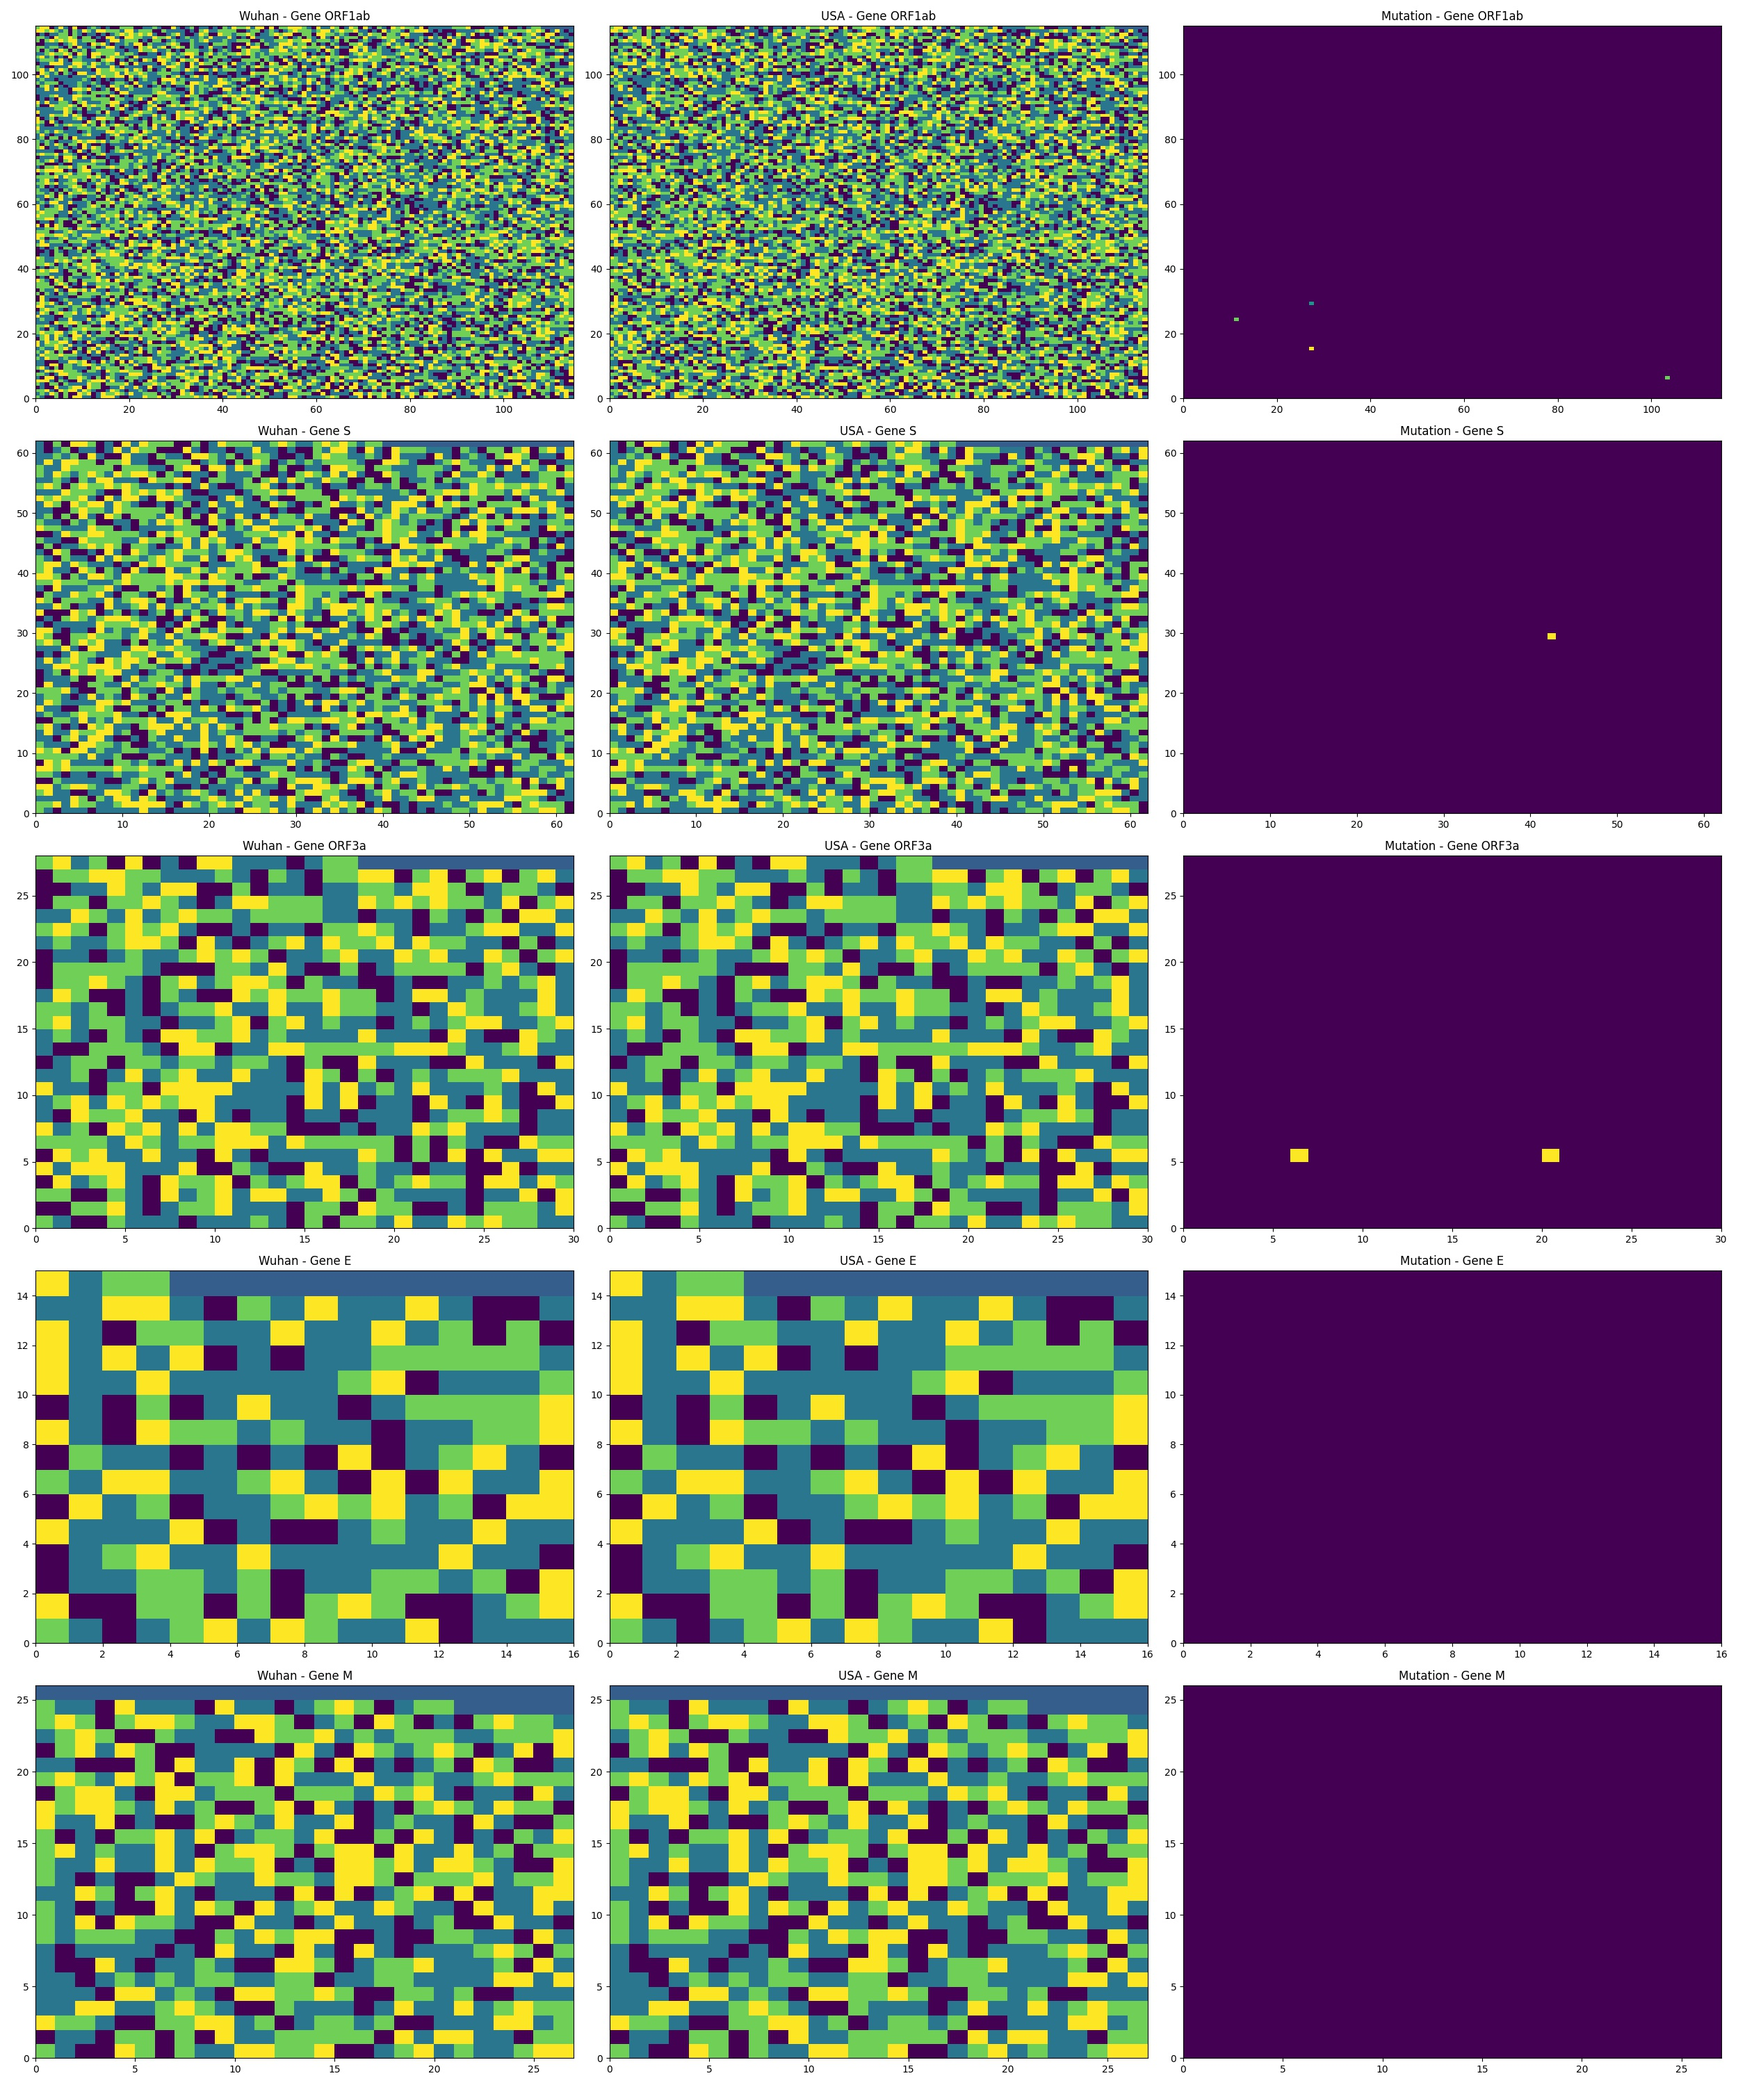
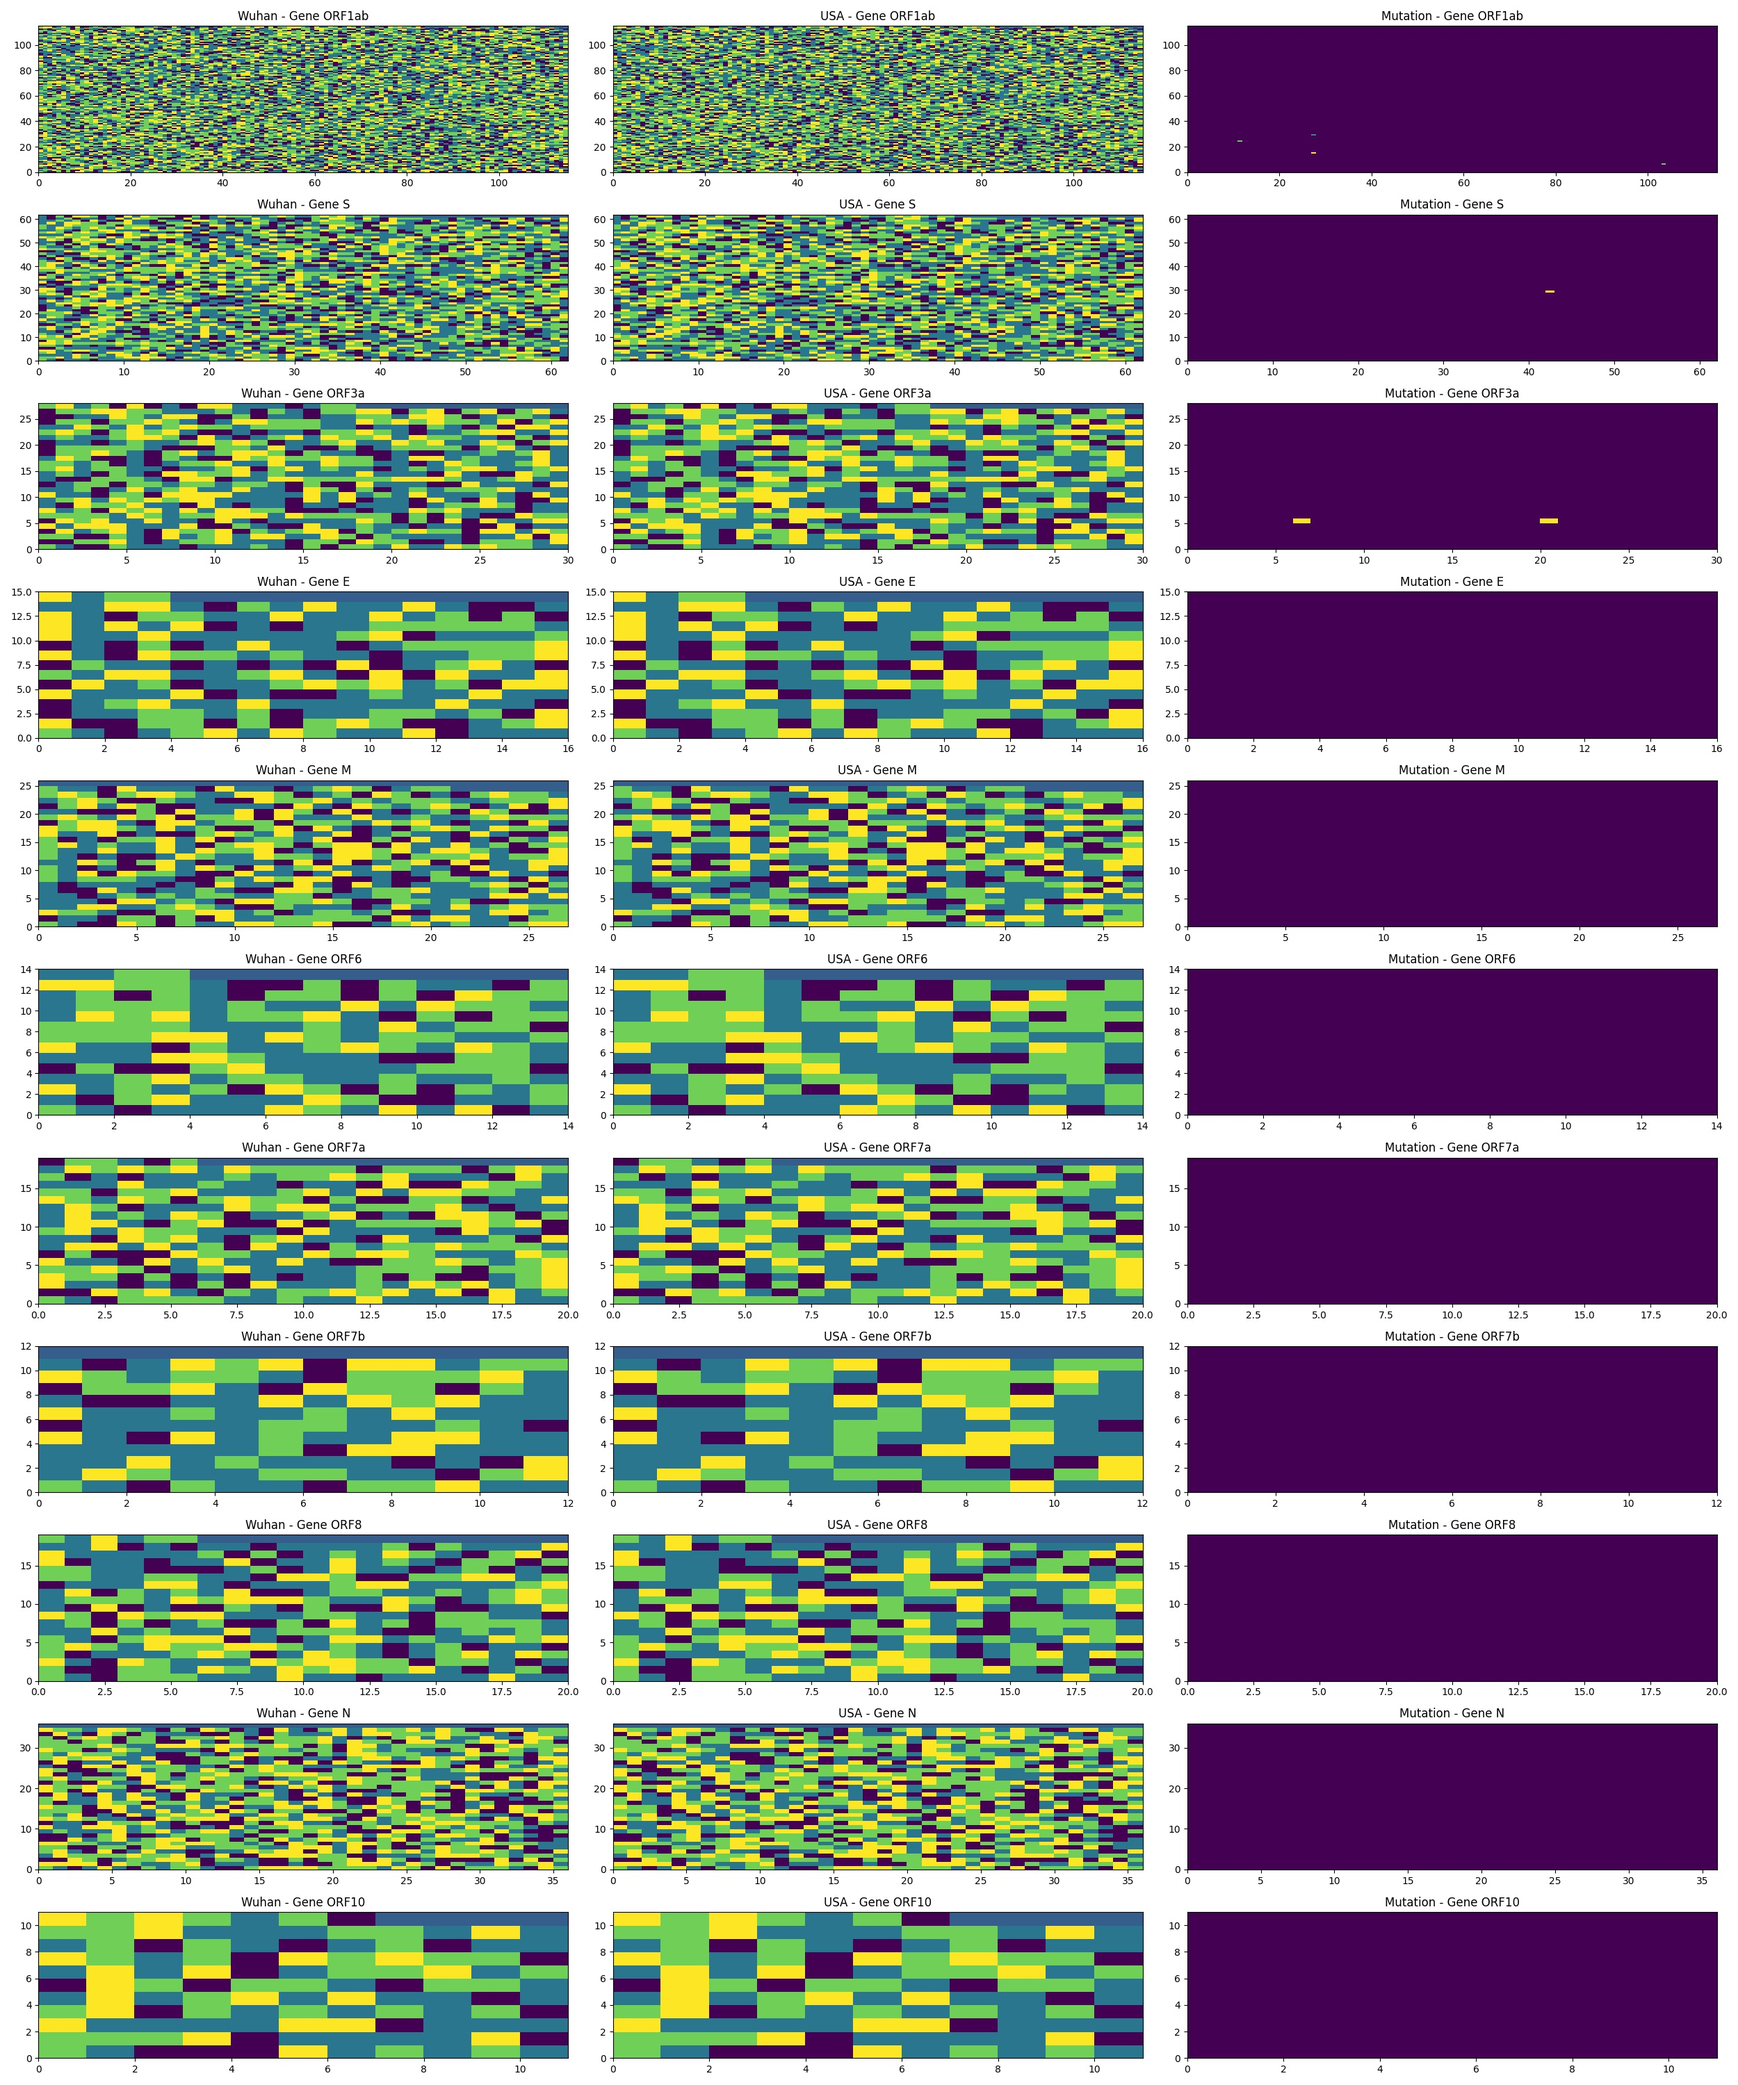
Finish implementing remaining proteins

diff --git a/main.py b/main.py
@@ -99,7 +99,61 @@ if __name__ == "__main__":
     usa_m = usa_m.reshape(usa["M"][1])
     mut_m = wuhan_m - usa_m
 
-    f, axs = plt.subplots(5, 3, figsize=(25, 30))
+    # Gene ORF6
+    wuhan_orf6 = wuhan["ORF6"][0].transcribe()
+    wuhan_orf6 = numpfy(wuhan_orf6)
+    wuhan_orf6 = wuhan_orf6.reshape(wuhan["ORF6"][1])
+    usa_orf6 = usa["ORF6"][0].transcribe()
+    usa_orf6 = numpfy(usa_orf6)
+    usa_orf6 = usa_orf6.reshape(usa["ORF6"][1])
+    mut_orf6 = wuhan_orf6 - usa_orf6
+
+    # Gene ORF7a
+    wuhan_orf7a = wuhan["ORF7a"][0].transcribe()
+    wuhan_orf7a = numpfy(wuhan_orf7a)
+    wuhan_orf7a = wuhan_orf7a.reshape(wuhan["ORF7a"][1])
+    usa_orf7a = usa["ORF7a"][0].transcribe()
+    usa_orf7a = numpfy(usa_orf7a)
+    usa_orf7a = usa_orf7a.reshape(usa["ORF7a"][1])
+    mut_orf7a = wuhan_orf7a - usa_orf7a
+
+    # Gene ORF7b
+    wuhan_orf7b = wuhan["ORF7b"][0].transcribe()
+    wuhan_orf7b = numpfy(wuhan_orf7b)
+    wuhan_orf7b = wuhan_orf7b.reshape(wuhan["ORF7b"][1])
+    usa_orf7b = usa["ORF7b"][0].transcribe()
+    usa_orf7b = numpfy(usa_orf7b)
+    usa_orf7b = usa_orf7b.reshape(usa["ORF7b"][1])
+    mut_orf7b = wuhan_orf7b - usa_orf7b
+
+    # Gene ORF8
+    wuhan_orf8 = wuhan["ORF8"][0].transcribe()
+    wuhan_orf8 = numpfy(wuhan_orf8)
+    wuhan_orf8 = wuhan_orf8.reshape(wuhan["ORF8"][1])
+    usa_orf8 = usa["ORF8"][0].transcribe()
+    usa_orf8 = numpfy(usa_orf8)
+    usa_orf8 = usa_orf8.reshape(usa["ORF8"][1])
+    mut_orf8 = wuhan_orf8 - usa_orf8
+
+    # Gene N
+    wuhan_n = wuhan["N"][0].transcribe()
+    wuhan_n = numpfy(wuhan_n)
+    wuhan_n = wuhan_n.reshape(wuhan["N"][1])
+    usa_n = usa["N"][0].transcribe()
+    usa_n = numpfy(usa_n)
+    usa_n = usa_n.reshape(usa["N"][1])
+    mut_n = wuhan_n - usa_n
+
+    # Gene ORF10
+    wuhan_orf10 = wuhan["ORF10"][0].transcribe()
+    wuhan_orf10 = numpfy(wuhan_orf10)
+    wuhan_orf10 = wuhan_orf10.reshape(wuhan["ORF10"][1])
+    usa_orf10 = usa["ORF10"][0].transcribe()
+    usa_orf10 = numpfy(usa_orf10)
+    usa_orf10 = usa_orf10.reshape(usa["ORF10"][1])
+    mut_orf10 = wuhan_orf10 - usa_orf10
+
+    f, axs = plt.subplots(11, 3, figsize=(25, 30))
 
     ax = axs[0, 0]
     ax.pcolor(wuhan_orf1ab)
@@ -160,6 +214,78 @@ if __name__ == "__main__":
     ax = axs[4, 2]
     ax.pcolor(mut_m)
     ax.set_title("Mutation - Gene M")
+
+    ax = axs[5, 0]
+    ax.pcolor(wuhan_orf6)
+    ax.set_title("Wuhan - Gene ORF6")
+
+    ax = axs[5, 1]
+    ax.pcolor(usa_orf6)
+    ax.set_title("USA - Gene ORF6")
+
+    ax = axs[5, 2]
+    ax.pcolor(mut_orf6)
+    ax.set_title("Mutation - Gene ORF6")
+
+    ax = axs[6, 0]
+    ax.pcolor(wuhan_orf7a)
+    ax.set_title("Wuhan - Gene ORF7a")
+
+    ax = axs[6, 1]
+    ax.pcolor(usa_orf7a)
+    ax.set_title("USA - Gene ORF7a")
+
+    ax = axs[6, 2]
+    ax.pcolor(mut_orf7a)
+    ax.set_title("Mutation - Gene ORF7a")
+
+    ax = axs[7, 0]
+    ax.pcolor(wuhan_orf7b)
+    ax.set_title("Wuhan - Gene ORF7b")
+
+    ax = axs[7, 1]
+    ax.pcolor(usa_orf7b)
+    ax.set_title("USA - Gene ORF7b")
+
+    ax = axs[7, 2]
+    ax.pcolor(mut_orf7b)
+    ax.set_title("Mutation - Gene ORF7b")
+
+    ax = axs[8, 0]
+    ax.pcolor(wuhan_orf8)
+    ax.set_title("Wuhan - Gene ORF8")
+
+    ax = axs[8, 1]
+    ax.pcolor(usa_orf8)
+    ax.set_title("USA - Gene ORF8")
+
+    ax = axs[8, 2]
+    ax.pcolor(mut_orf8)
+    ax.set_title("Mutation - Gene ORF8")
+
+    ax = axs[9, 0]
+    ax.pcolor(wuhan_n)
+    ax.set_title("Wuhan - Gene N")
+
+    ax = axs[9, 1]
+    ax.pcolor(usa_n)
+    ax.set_title("USA - Gene N")
+
+    ax = axs[9, 2]
+    ax.pcolor(mut_n)
+    ax.set_title("Mutation - Gene N")
+
+    ax = axs[10, 0]
+    ax.pcolor(wuhan_orf10)
+    ax.set_title("Wuhan - Gene ORF10")
+
+    ax = axs[10, 1]
+    ax.pcolor(usa_orf10)
+    ax.set_title("USA - Gene ORF10")
+
+    ax = axs[10, 2]
+    ax.pcolor(mut_orf10)
+    ax.set_title("Mutation - Gene ORF10")
 
     f.tight_layout()
     f.savefig("wuhan.jpg")
